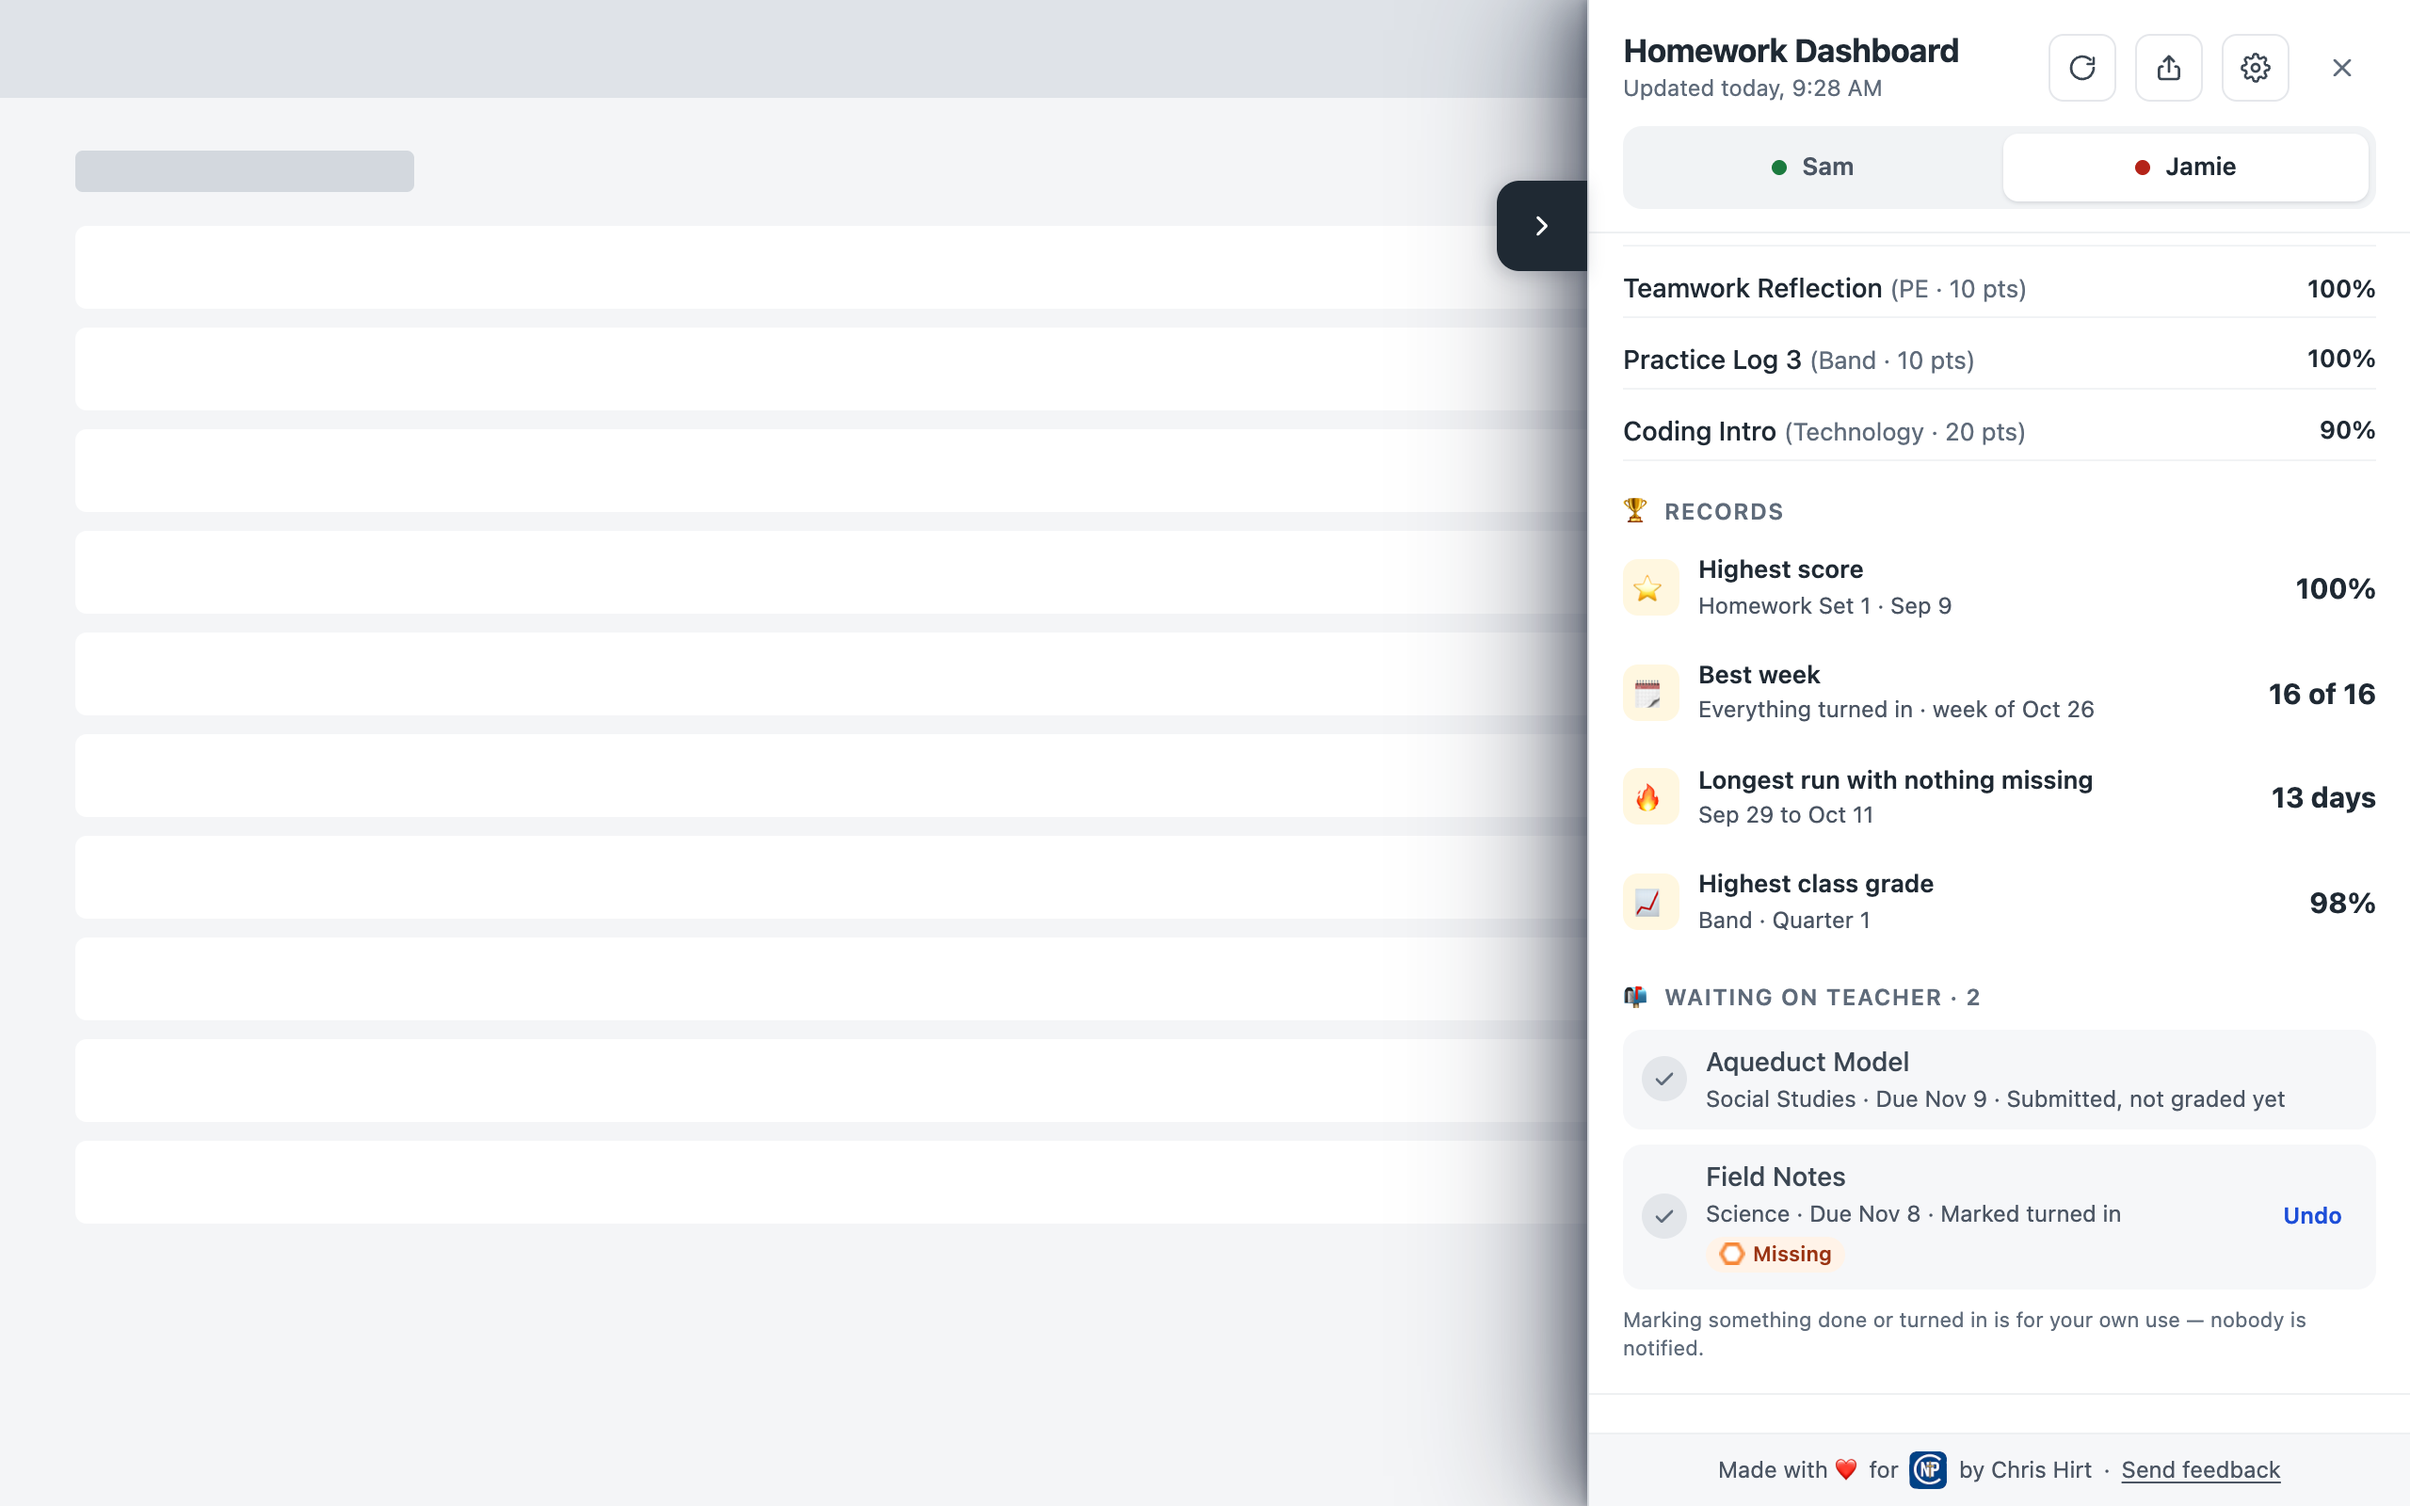
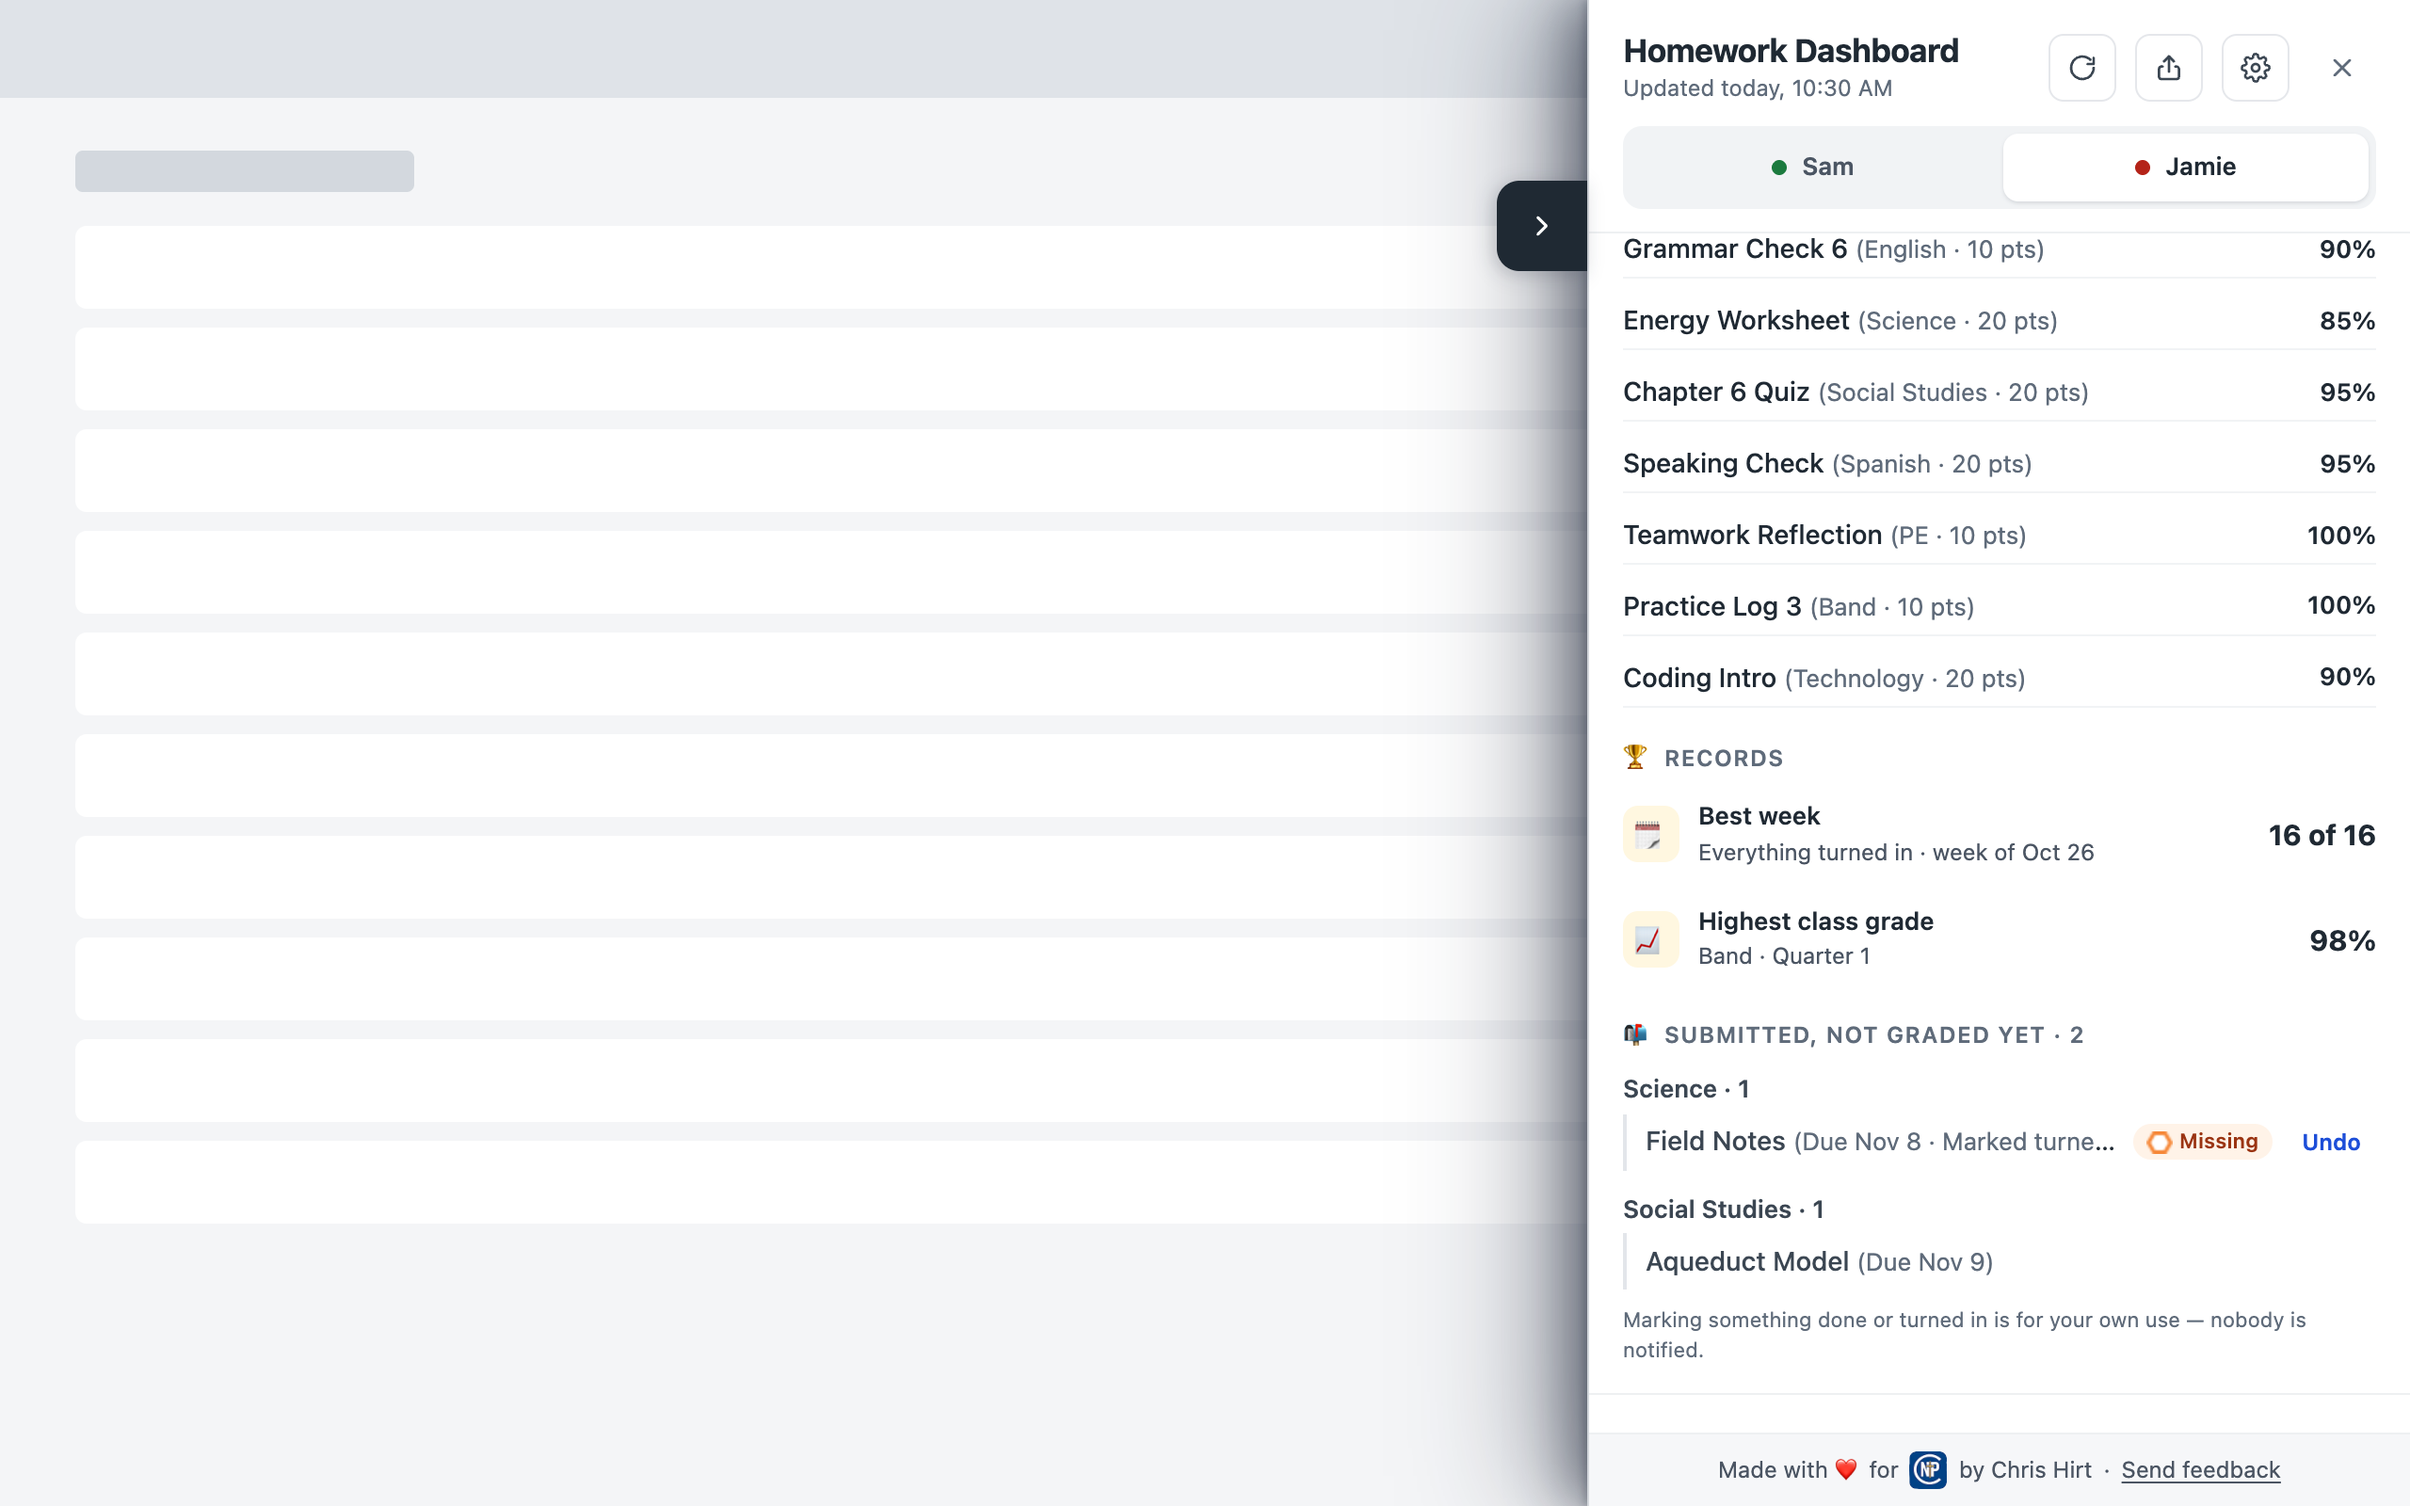
Site: match main's "Submitted, not graded yet" and retake screenshots

diff --git a/site/features.html b/site/features.html
@@ -22,10 +22,10 @@
 <section class="block"><div class="wrap">
 <div class="section-intro"><div class="eyebrow">Features &amp; research</div><h1>Purpose-built. Research-backed. For Students and Parents.</h1></div>
 <article class="feature flip" id="missing">
-<div><h2>Missing work first, with turned-in and done marks</h2><p>Teacher-marked Missing work is always at the top, with the class and due date. If work was handed in on paper, the family can tick it as turned in, and it moves to “Waiting on teacher” until it's graded.</p>
+<div><h2>Missing work first, with turned-in and done marks</h2><p>Teacher-marked Missing work is always at the top, with the class and due date. If work was handed in on paper, the family can tick it as turned in, and it moves to “Submitted, not graded yet” until it's graded.</p>
 <div class="research"><strong>What the research says</strong><p>Specific information about missing assignments is what made the parent alerts work.<sup class="cite"><a href="research.html#r1">[1]</a></sup> Feedback helps most when it's about the task and what to do next.<sup class="cite"><a href="research.html#r5">[5]</a></sup></p></div>
 <div class="avoid"><strong>What we avoid, and why</strong><p>A plain zero is never called Missing, because only the teacher's Missing mark counts. Marks never notify anyone. Feedback that turns attention to the person (“you're behind”) instead of the task often makes things worse.<sup class="cite"><a href="research.html#r6">[6]</a></sup></p></div></div>
-<div class="feature-media"><div class="panel-crop"><img src="img/waiting-on-teacher.png" alt="Waiting on teacher: work the family marked as turned in, still waiting for a grade." loading="lazy" style="width:293%;max-width:none;margin-left:-193%"></div></div>
+<div class="feature-media"><div class="panel-crop"><img src="img/waiting-on-teacher.png" alt="Submitted, not graded yet: work the family marked as turned in, still waiting for a grade." loading="lazy" style="width:293%;max-width:none;margin-left:-193%"></div></div>
 </article><article class="feature" id="due">
 <div><h2>Due today and tomorrow</h2><p>A short list of what's due in the next two days, so tonight's plan is obvious.</p>
 <div class="research"><strong>What the research says</strong><p>Children given near, concrete goals made faster progress and built more confidence and interest than children given one distant goal.<sup class="cite"><a href="research.html#r8">[8]</a></sup> Deciding when and where to do something makes people much more likely to follow through.<sup class="cite"><a href="research.html#r9">[9]</a></sup></p></div>

diff --git a/site/teachers.html b/site/teachers.html
@@ -28,7 +28,7 @@
 <h3>Fewer surprises at report-card time</h3><p>Weekly missing-work information for parents cut course failures in a large study.<sup class="cite"><a href="research.html#r1">[1]</a></sup></p>
 <h3>Paper work</h3><p>Families can tick paper work as "turned in". That's only for them: it doesn't notify you or change anything in Schoology.</p>
 </div>
-<div class="feature-media"><div class="panel-crop"><img src="img/waiting-on-teacher.png" alt="Waiting on teacher: work the family marked as turned in, still waiting for a grade." loading="lazy" style="width:293%;max-width:none;margin-left:-193%"></div></div>
+<div class="feature-media"><div class="panel-crop"><img src="img/waiting-on-teacher.png" alt="Submitted, not graded yet: work the family marked as turned in, still waiting for a grade." loading="lazy" style="width:293%;max-width:none;margin-left:-193%"></div></div>
 </div>
 </div></section>
 
